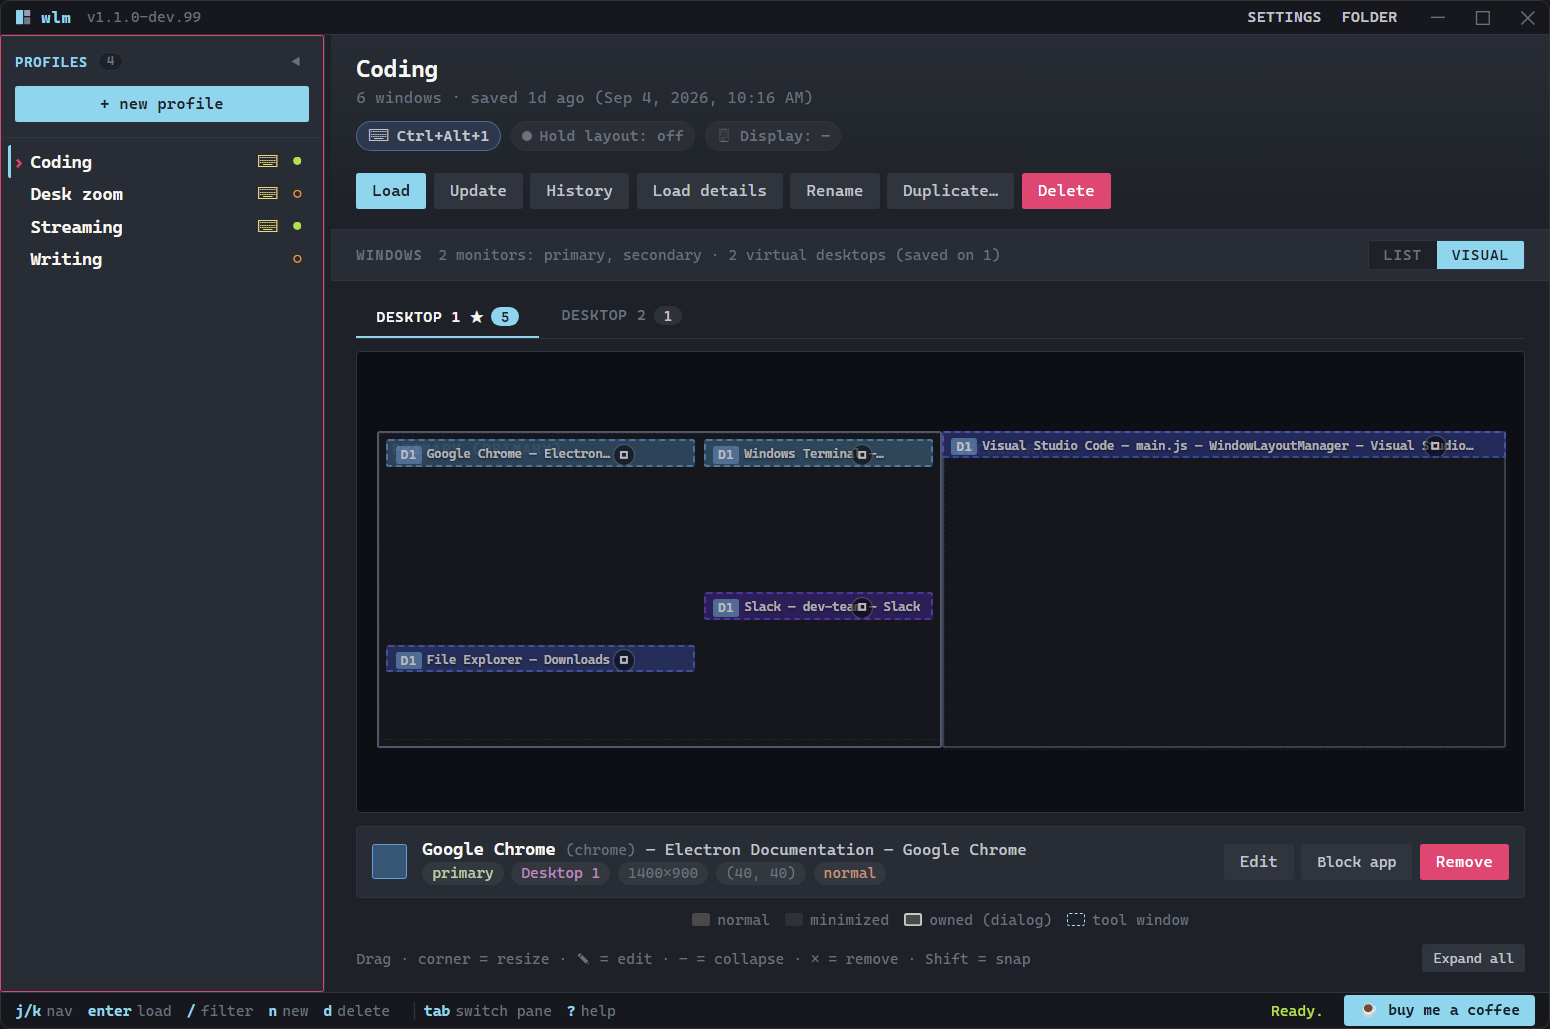
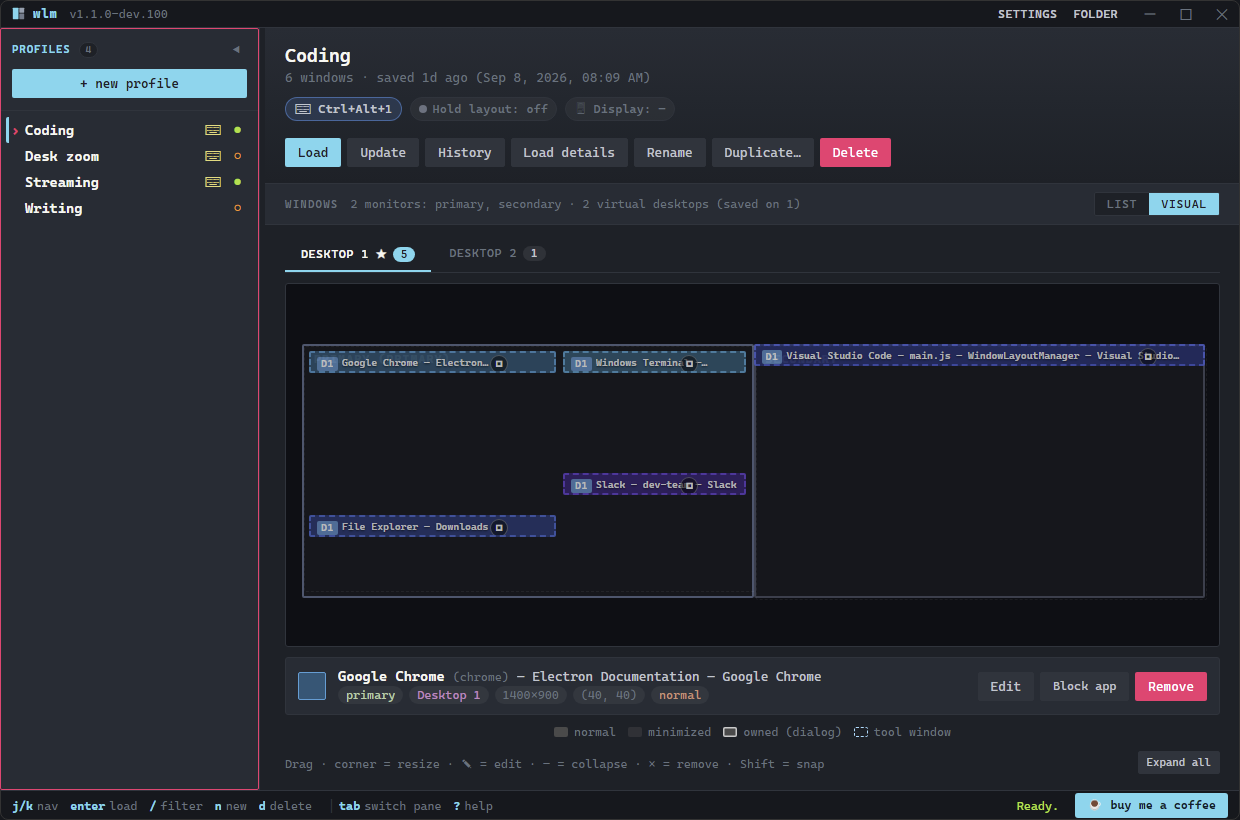
WLM v1.1.0-dev.100: the highest refresh rate, and starting with Windows
Feed, download href and tutorial for the new release.

The tutorial's Window section becomes Startup, Window Positions & About,
with the new Starting with Windows subsection above the window-position
prose, matching where the Startup section sits in the app. The resolution
page now names the "Highest this size offers" option and says what it
means, kept apart from the sentence beside it about the automatic
fallback, which is a different mechanism with nearly the same words.

Screenshots re-captured from the packaged dev.100 build rather than from
a source run, so the Startup panel reads the way a real install does.

diff --git a/projects/windowlayoutmanager/tutorial/index.html b/projects/windowlayoutmanager/tutorial/index.html
@@ -301,7 +301,7 @@
           <li><a href="#blacklist">Blacklist</a></li>
           <li><a href="#companion">Companion Software</a></li>
           <li><a href="#diagnostics">Diagnostics &amp; Reporting a Bug</a></li>
-          <li><a href="#window">Window Positions &amp; About</a></li>
+          <li><a href="#window">Startup, Window Positions &amp; About</a></li>
           <li><a href="#cli">CLI, Links &amp; Automation</a></li>
         </ul>
 
@@ -382,6 +382,7 @@
 
           <h3>Picking a Resolution</h3>
           <p>Resolution is two dropdowns, one for size and one for refresh rate, the way Windows and NVIDIA both do it. Sizes are grouped by shape (16:9, 4:3, 21:9) and the largest one is marked. Some displays offer a lot of them (one test machine reports 227 modes). The size list has a search box at the top. Type <code>1440</code> for every mode with 1440 on either side, <code>2560 1440</code>, <code>2560x1440</code>, or just <code>25 14</code> for that one, or a word to search the labels. Arrow keys, <kbd>Home</kbd>, <kbd>End</kbd>, <kbd>Enter</kbd>, and <kbd>Esc</kbd> all work in the list. Pick a size that can't do your current refresh rate and WLM keeps the rate where it can, otherwise falls back to the highest that size offers and tells you it did.</p>
+          <p>The rate dropdown opens on <strong>Highest this size offers</strong>, which is a request rather than a blank. It means "whatever the fastest rate is here", worked out on the display the profile lands on rather than fixed when you save it, so one profile asks for the best each of your displays can do. Leave it there and that's what you get. Pick a number instead and WLM asks for exactly that.</p>
           <p>The orientation dropdown sits before the resolution, because it decides what resolutions there are. Windows only reports sizes for the orientation a display is currently in. WLM works out the list for the one you pick. Flipping between landscape and portrait keeps the same physical resolution selected. Sizes are written long side first whichever way the panel faces. A rotated monitor reads 2560&times;1440. What's sent to Windows stays in the orientation Windows is speaking.</p>
           <p>A mode your display doesn't currently offer is still saved, flagged <em>not offered yet</em>, and applies the moment the driver starts listing it. That matters for virtual displays, whose mode lists change with what the driver has been told about.</p>
 
@@ -559,10 +560,20 @@
 
         <section id="window">
           <p class="prompt-line"><span class="u">wlm</span><span class="p">:~</span>$ <span class="cmd">wlm --tutorial window</span></p>
-          <h2>Window Positions &amp; About</h2>
-          <p>The app window remembers the size and position you leave it at. Dialogs don't: each one opens at the size its content needs, every time.</p>
-          <div class="shot"><a href="img/17-settings-window.png" target="_blank" rel="noopener" title="Open full size"><img src="img/17-settings-window.png" alt="Window settings tab" loading="lazy"></a></div>
+          <h2>Startup, Window Positions &amp; About</h2>
+
+          <h3>Starting with Windows</h3>
+          <p>Tick <strong>Start Window Layout Manager when I sign in to Windows</strong> and it does. It starts in the tray, where WLM lives anyway, so nothing opens over whatever you signed in to do. Your hotkeys, Hold mode, and auto-activation are all running from the moment you land on the desktop. There's a second box under the first if you'd rather see the window as well. Both are off until you turn them on.</p>
+          <p>WLM ships as a portable zip with no installer, so it writes its own startup entry, for the folder you're running from, under your own user account. Nothing elevated, nothing machine-wide. Move the folder and it re-points itself the next time you run it. Install an update and it follows that too.</p>
+          <div class="tip">No installer means no uninstaller, so clear the box before you delete the folder. Windows keeps reaching for an entry you leave behind. If you switch the entry off in Task Manager's Startup tab instead, that wins, and the panel says so rather than quietly writing over you.</div>
+          <div class="shot"><a href="img/17-settings-window.png" target="_blank" rel="noopener" title="Open full size"><img src="img/17-settings-window.png" alt="Startup &amp; Window settings tab" loading="lazy"></a></div>
           <p class="caption">Settings is a fixed panel inside the main window. It reads the same on every machine.</p>
+
+          <h3>Window Positions</h3>
+          <p>The app window remembers the size and position you leave it at. Dialogs don't: each one opens at the size its content needs, every time.</p>
+          <p>The <strong>Appearance</strong> box below tints the window with the Windows 11 desktop backdrop. Windows also draws that backdrop into the alt-tab and taskbar previews, where a blurred sample of your wallpaper can read as a blurry picture of the app. Turn it off if those previews look wrong.</p>
+
+          <h3>About</h3>
           <p>"About" carries the running version, the licence, and where your profiles live.</p>
           <div class="shot"><a href="img/18-settings-about.png" target="_blank" rel="noopener" title="Open full size"><img src="img/18-settings-about.png" alt="About settings tab" loading="lazy"></a></div>
         </section>

diff --git a/projects/windowlayoutmanager/index.html b/projects/windowlayoutmanager/index.html
@@ -595,7 +595,7 @@
                dev.74, which is what anyone with scripts blocked would have
                downloaded. -->
           <a class="btn-download" id="dl-btn"
-             href="https://github.com/defessler/WindowLayoutManager-releases/releases/download/v1.1.0-dev.99/WindowLayoutManager-v1.1.0-dev.99-win-x64.zip">Download for Windows</a>
+             href="https://github.com/defessler/WindowLayoutManager-releases/releases/download/v1.1.0-dev.100/WindowLayoutManager-v1.1.0-dev.100-win-x64.zip">Download for Windows</a>
           <div class="dl-meta">
             <div id="dl-version">latest release<span class="pre-badge" id="dl-pre" hidden>pre-release</span></div>
             <div id="dl-info">x64 · portable .zip</div>
